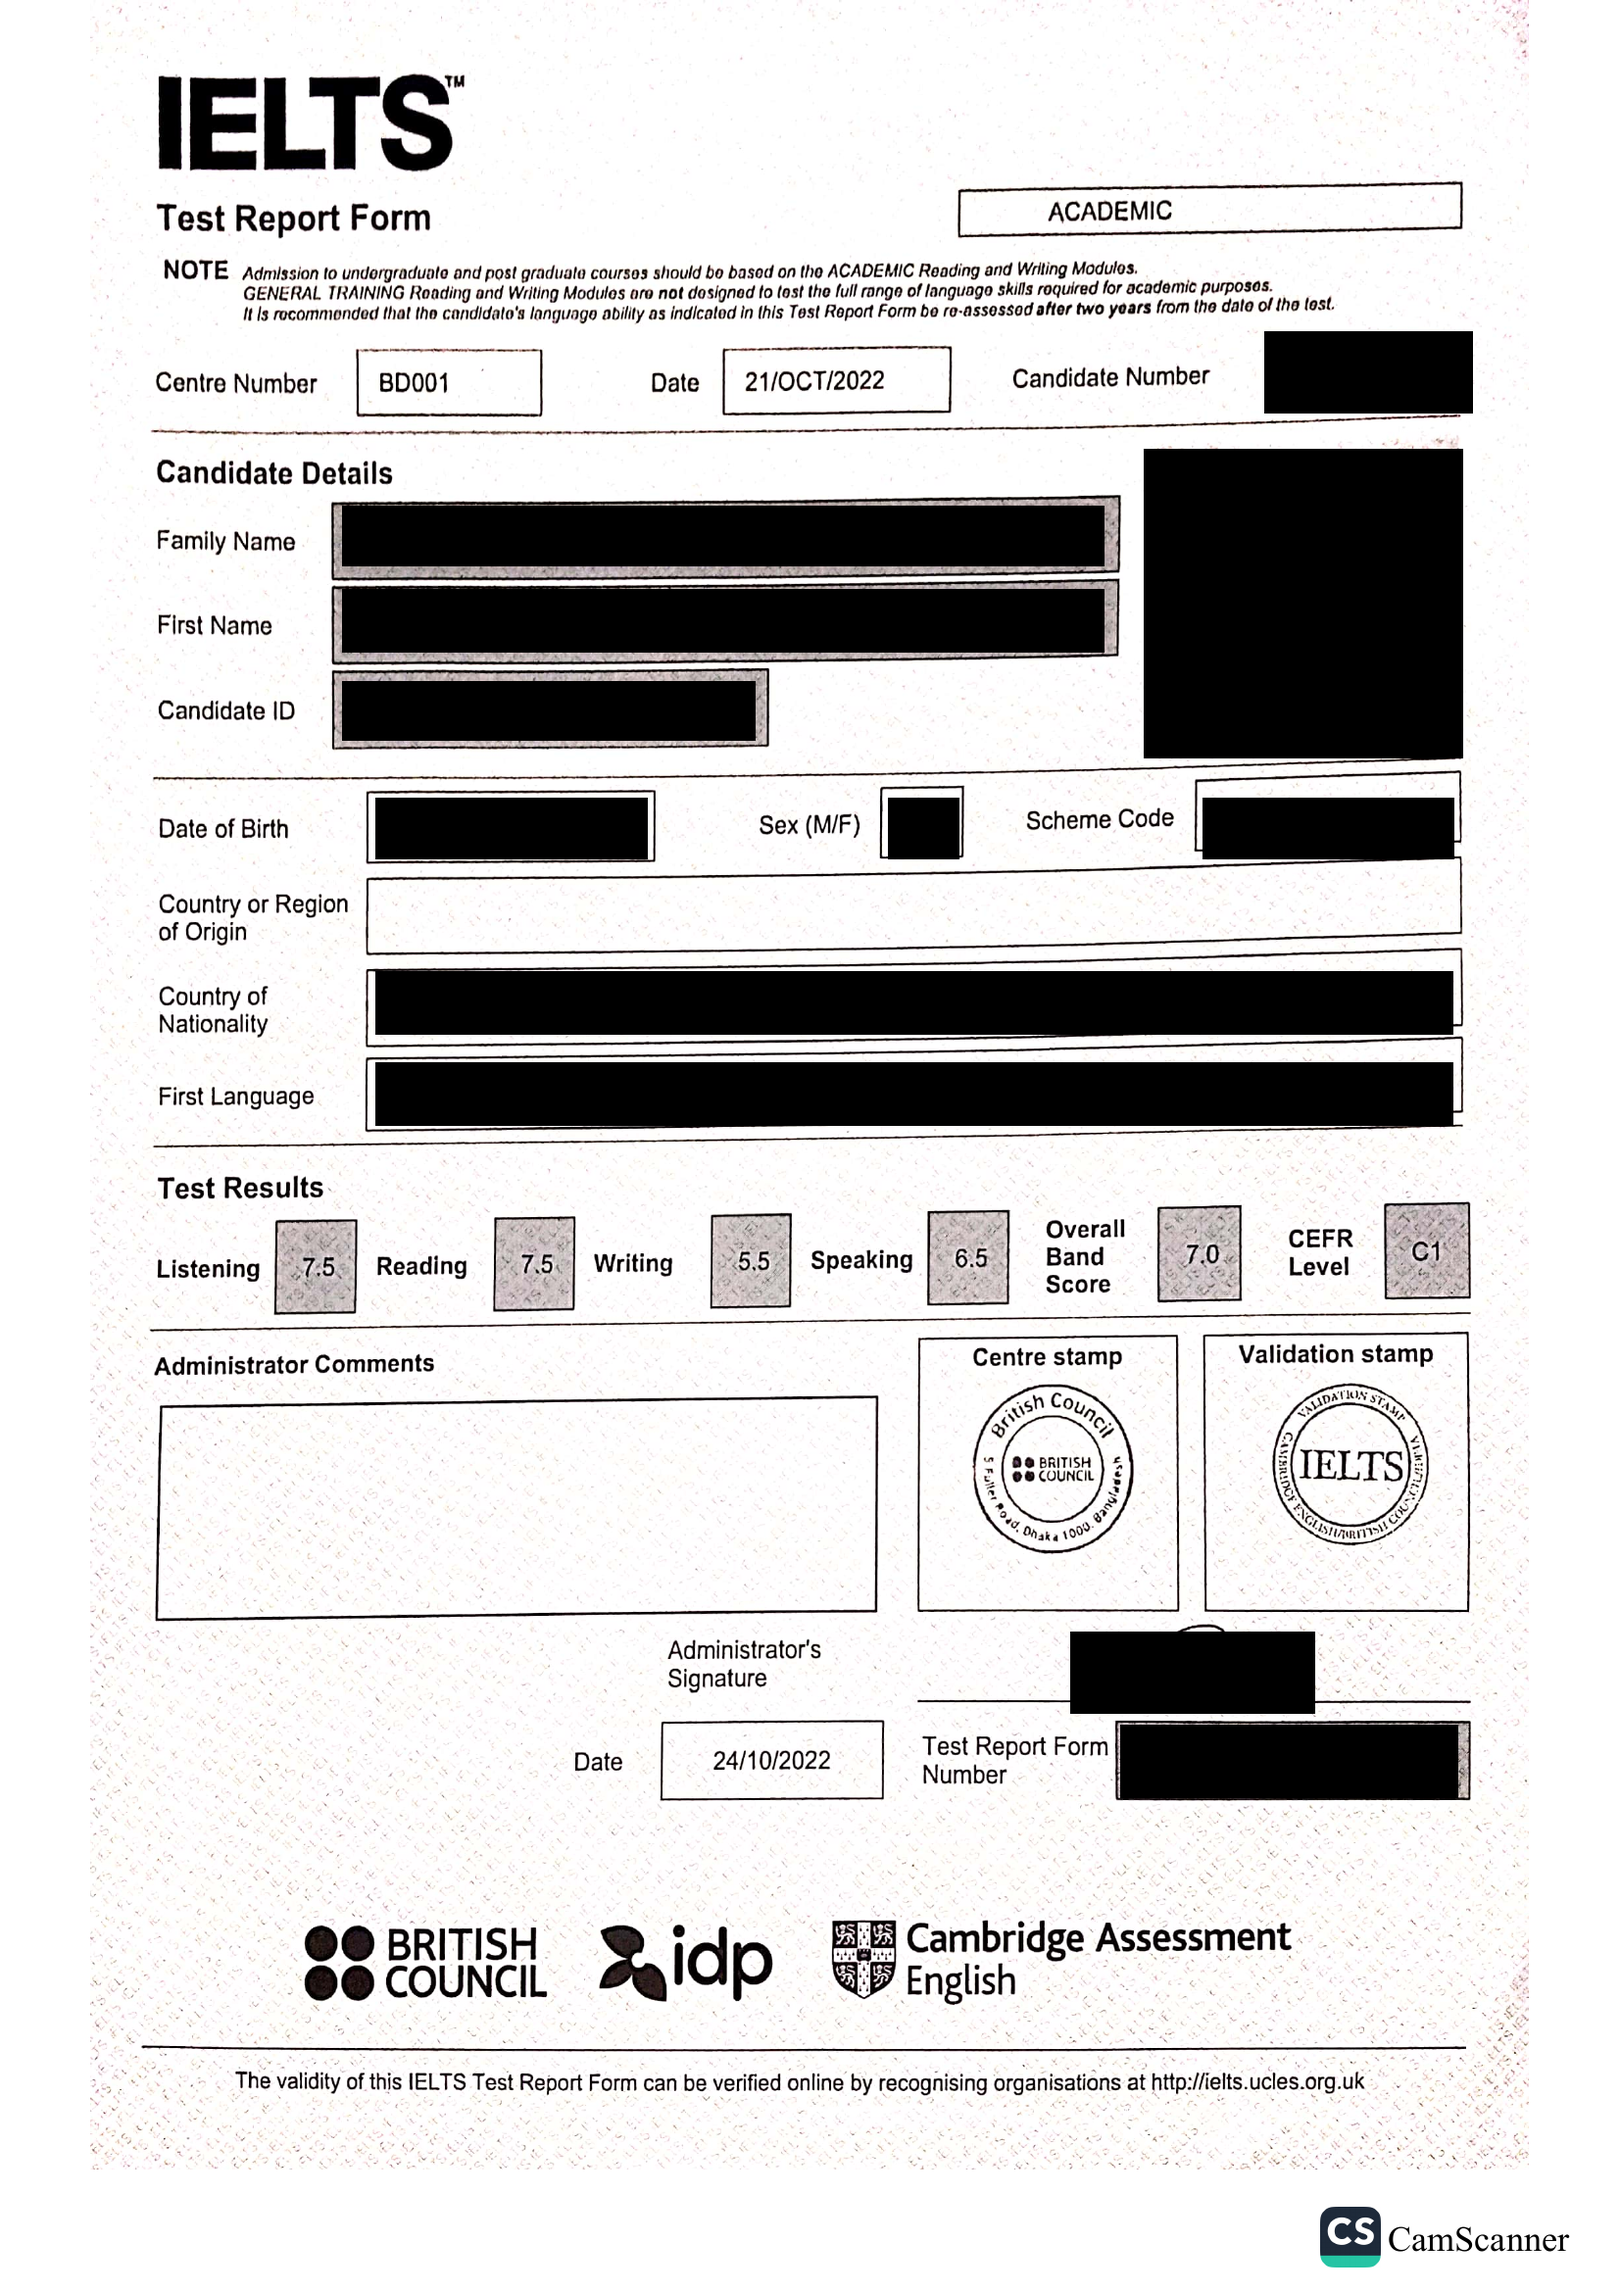
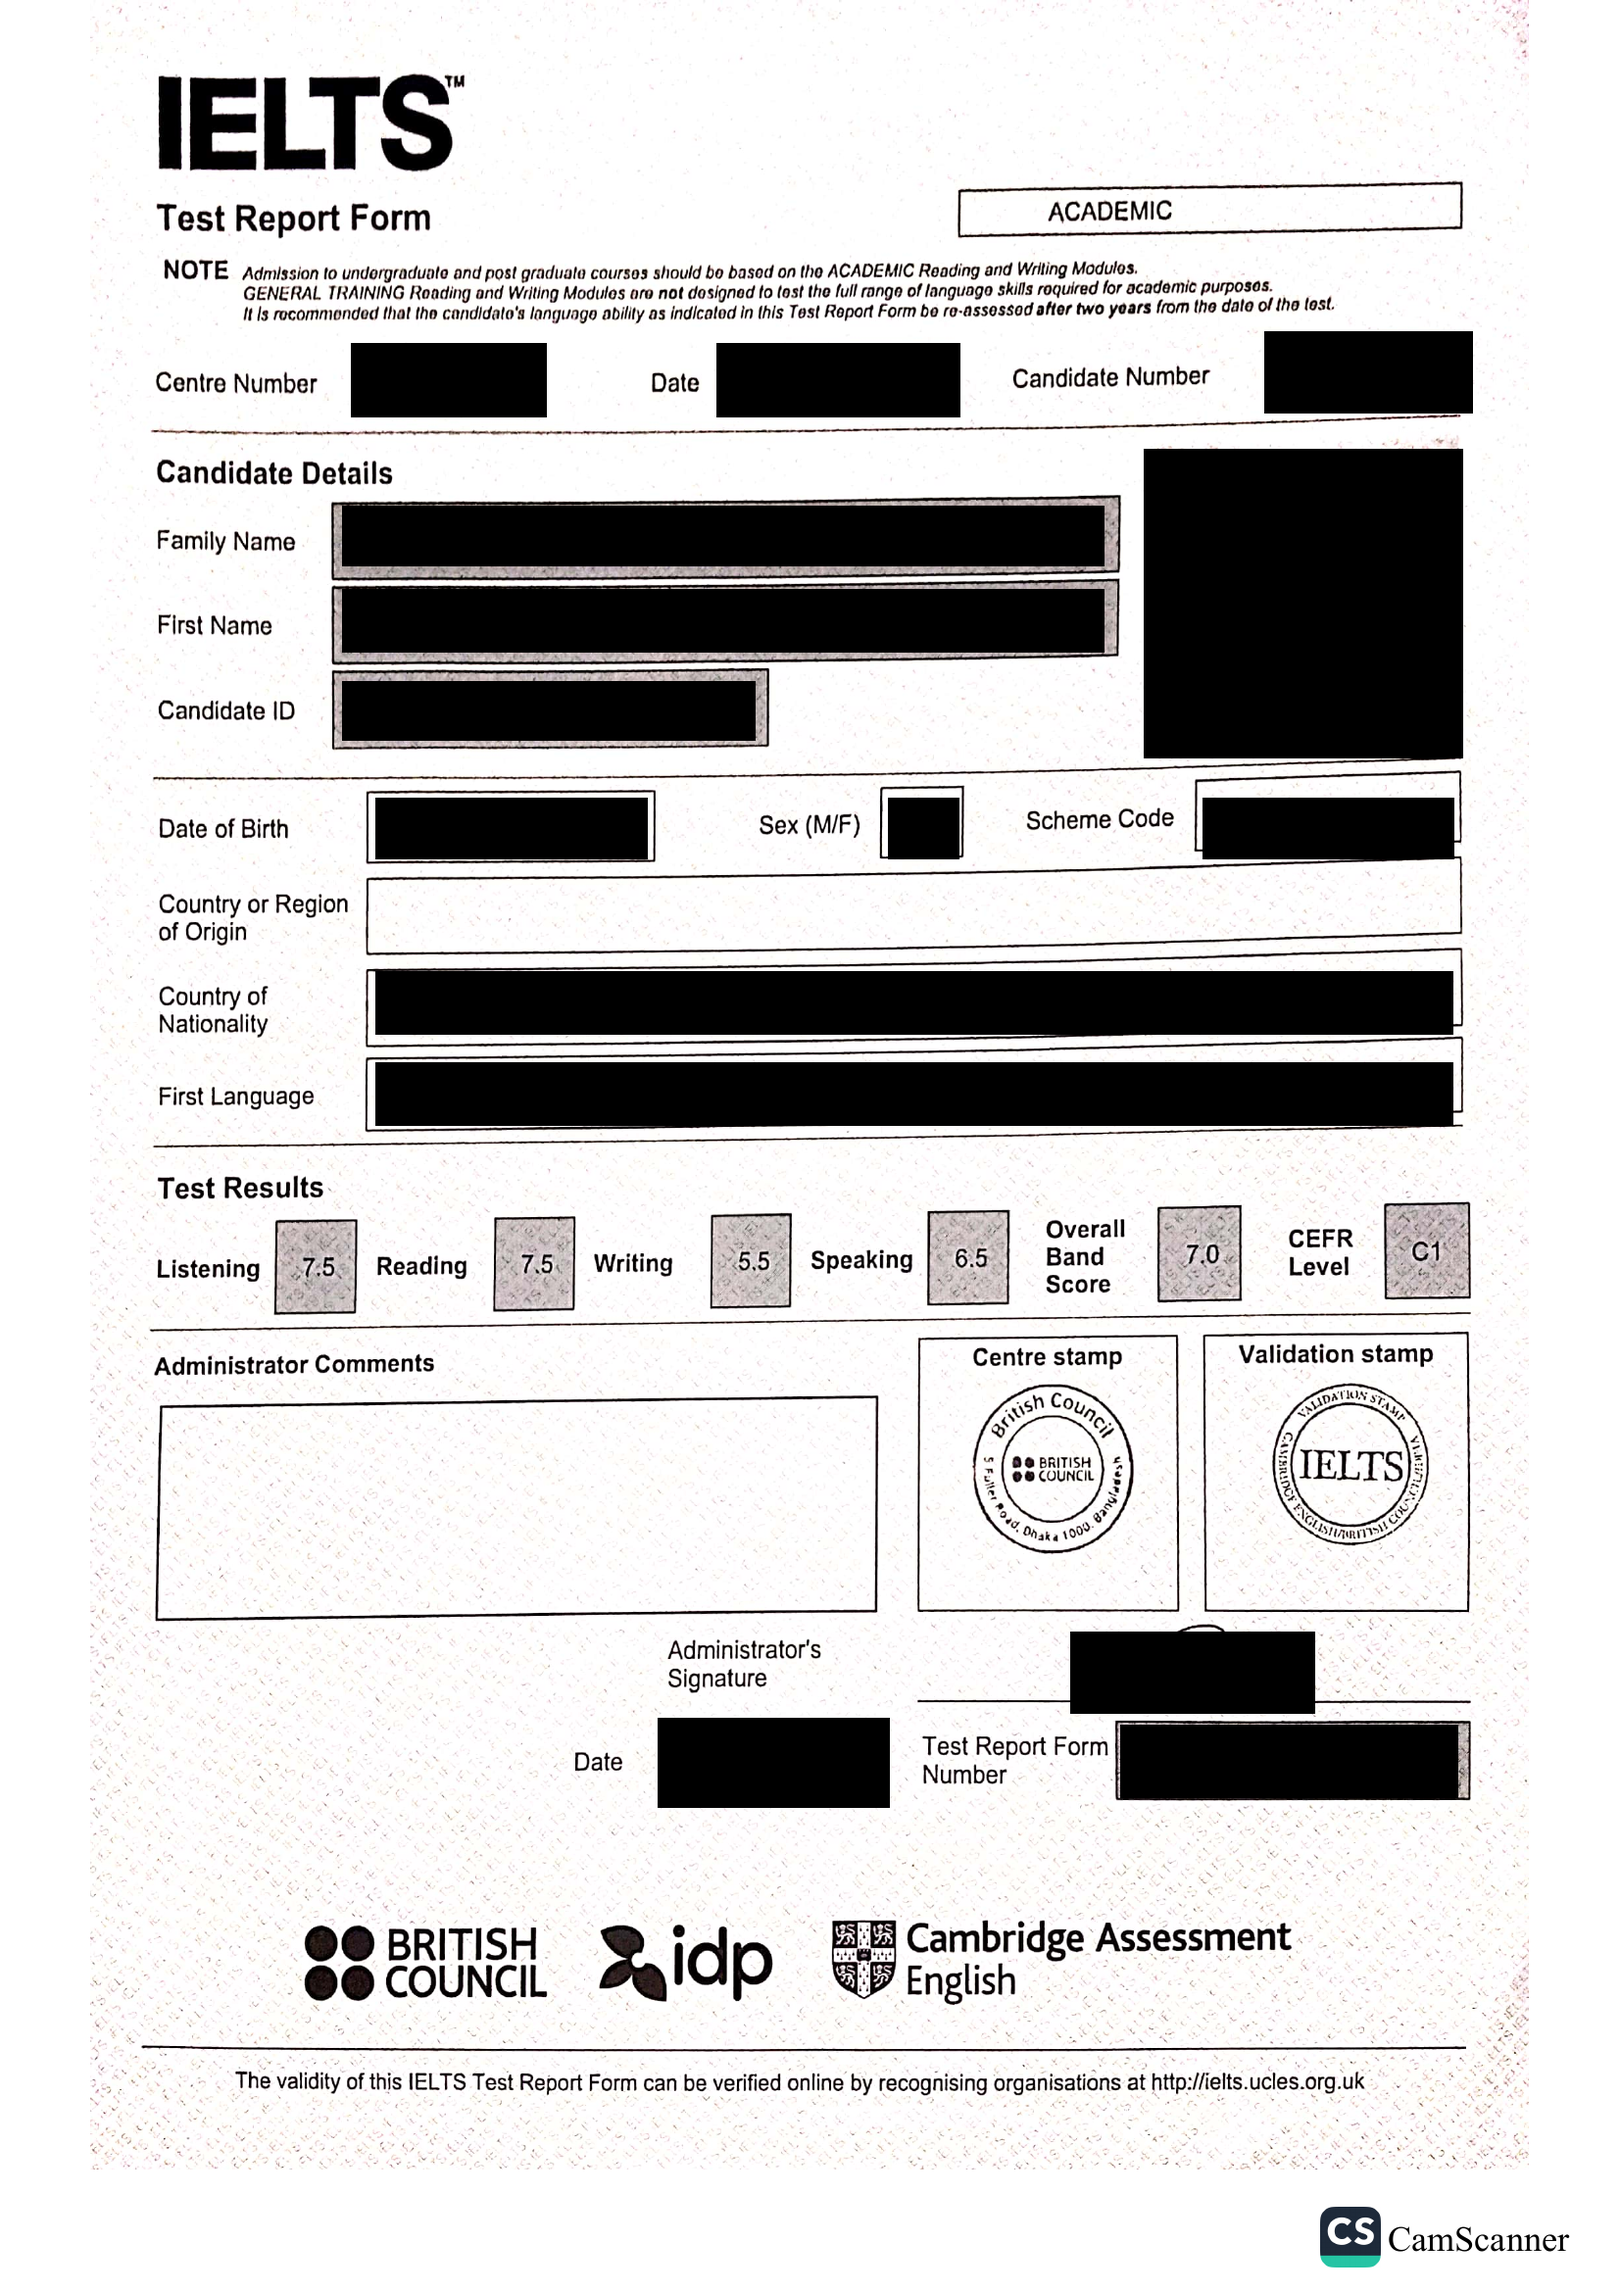
Redact IELTS test identifiers from public scorecard

Changed region(s): [[0.4319, 0.1248, 0.6171, 0.1873], [0.4011, 0.749, 0.5554, 0.8115], [0.216, 0.1248, 0.3394, 0.1873]]

diff --git a/README.md b/README.md
@@ -11,7 +11,7 @@ Based in Bangladesh; available for full-time remote work.
 ## Education and exam results
 
 - **BSc, Electrical and Electronics Engineering**, Atish Dipankar University of Science & Technology, 2019–2022; CGPA 3.75/4.00. The three transcript pages are available below with identity numbers and signatures redacted.
-- **IELTS Academic**, overall band 7.0 (CEFR C1). This is a redacted image of the original score report; candidate identifiers and personal details are covered.
+- **IELTS Academic**, overall band 7.0 (CEFR C1). This is the original score report with candidate identifiers, personal details, test-centre/date fields, and the administrator signature redacted; the authentic band scores and report layout remain visible.
 
 [Open the IELTS score report](credentials/IELTS_Academic_Public_Redacted.png)  
 [Transcript page 1](credentials/Academic_Transcript_Public_Redacted_Page1.png) · [page 2](credentials/Academic_Transcript_Public_Redacted_Page2.png) · [page 3](credentials/Academic_Transcript_Public_Redacted_Page3.png)
